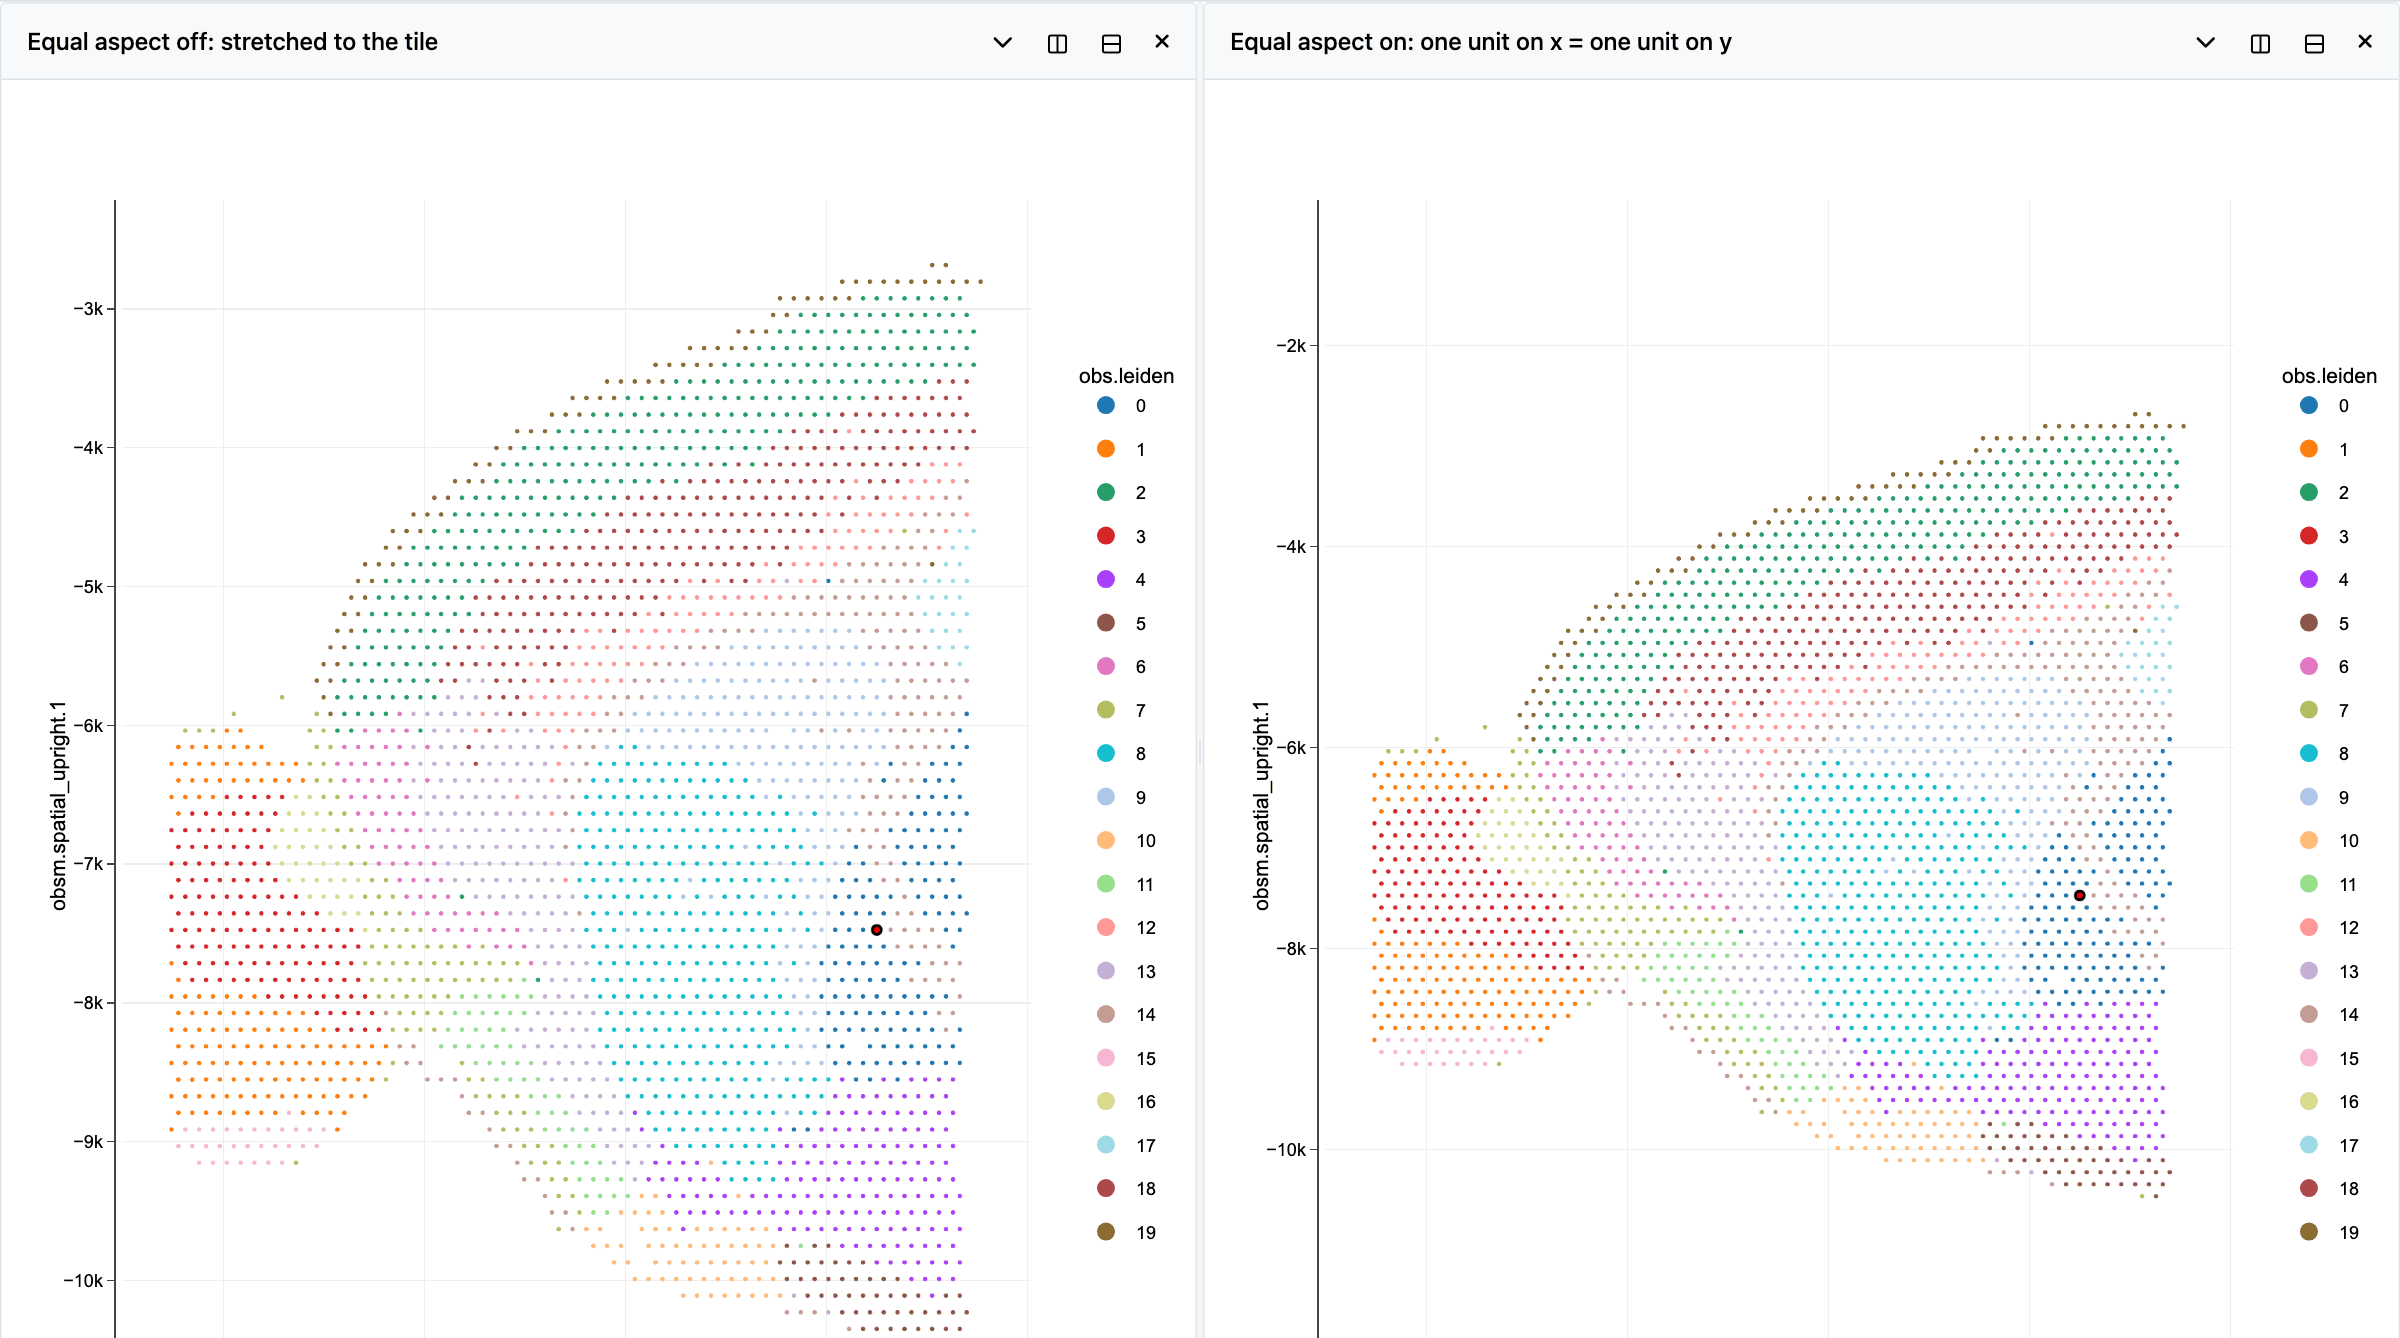
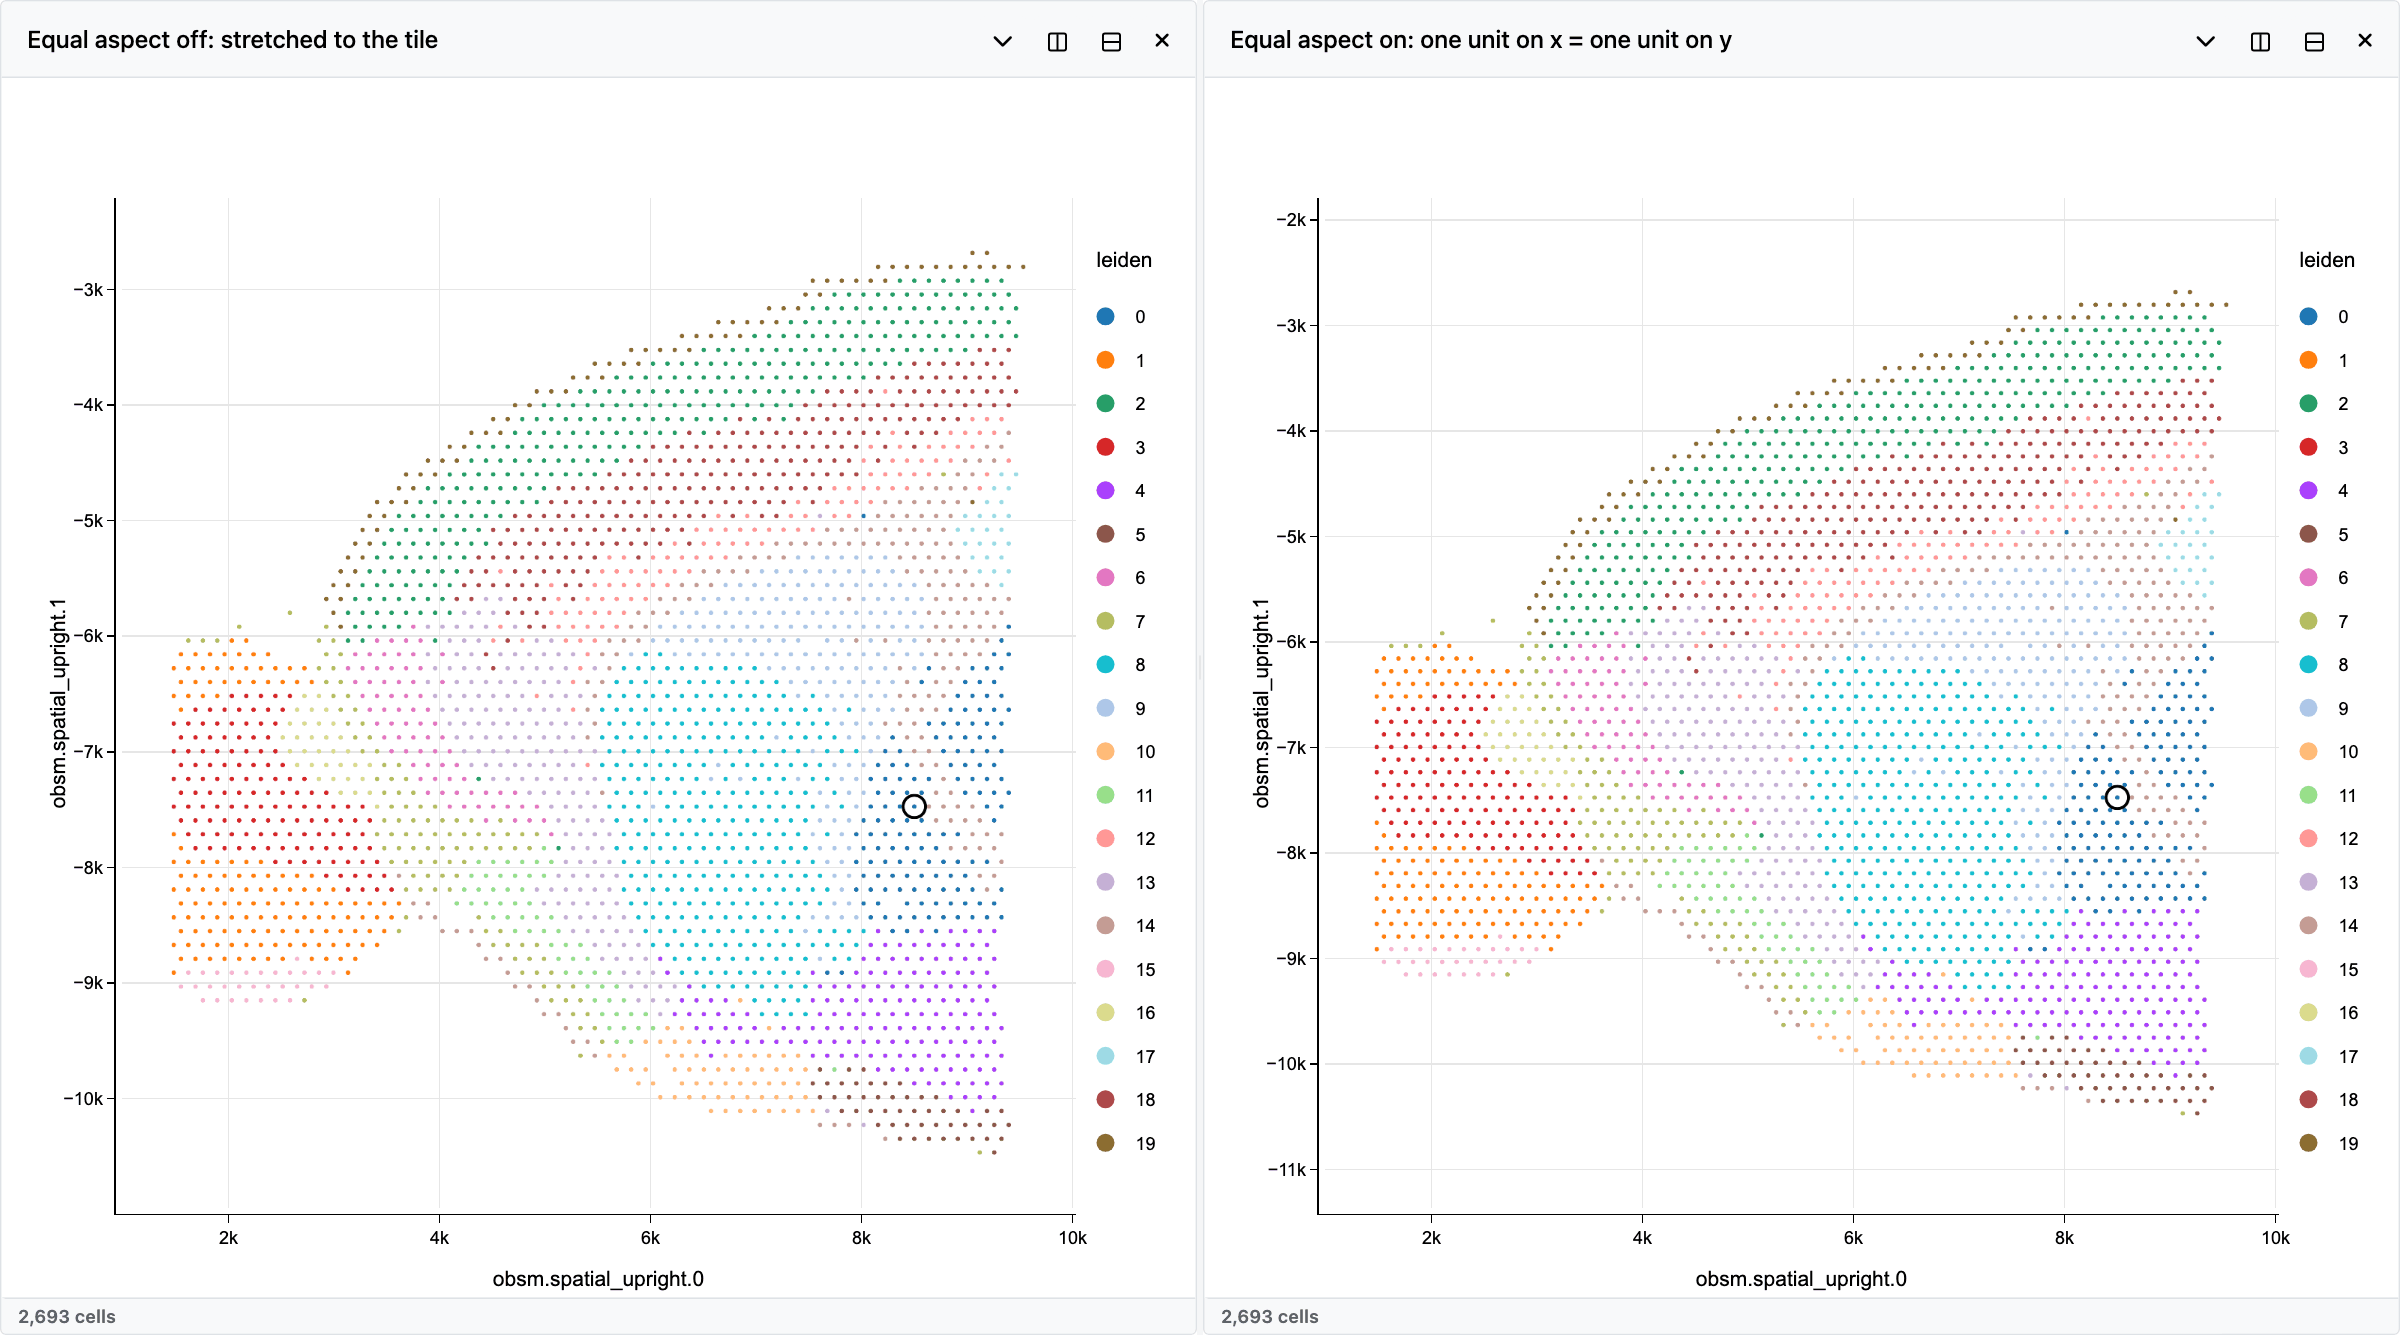
Docs shots: we4-spearman fits (the table's open filter builder is folded for the capture), spatial shots on the 0.8.0 interface with taller showcase windows

diff --git a/docs/_tools/shoot_showcase.py b/docs/_tools/shoot_showcase.py
@@ -35,10 +35,10 @@ if __name__ == "__main__":
     a = ap.parse_args()
     with Session(a.port, OUT) as s:
         page = s.open(view("showcase-spatial"), dataset="spatial_demo.zarr",
-                      viewport={"width": 1500, "height": 560})
+                      viewport={"width": 1500, "height": 760})
         s.shot(page, "spatial-demo")
         page = s.open(view("showcase-spatial-kernel-umap"), dataset="spatial_demo.zarr",
-                      viewport={"width": 1100, "height": 560})
+                      viewport={"width": 1100, "height": 760})
         s.shot(page, "spatial-kernel-umap")
         page = s.open(view("showcase-plasma"), dataset="bm_aging_annzarro.zarr",
                       viewport={"width": 1200, "height": 600})

diff --git a/docs/_tools/shoot_we_steps.py b/docs/_tools/shoot_we_steps.py
@@ -209,6 +209,11 @@ def fade(sh, data):
 def rows(sh, data):
     v, ds = view_of("cells-and-genes-d")
     page = sh.open(v, dataset=str(data / ds))
+    # The view's table carries a five-condition filter. Tiles grow with their content (the page scrolls), so its open
+    # Advanced Search makes the split taller than the window and stretches the plot beside it: this shot is of the plot,
+    # so the table's filter builder is folded away for the capture only.
+    page.add_style_tag(content=".tile[data-tile-id^='gene-table'] .dtsb-searchBuilder { display: none !important; }")
+    sh.ready(page)
     G = next(k for k in v["layout"]["panelConfigs"] if k.startswith("gene-plot"))
     toggle_controls(sh, page, G)
     c = T(G)
